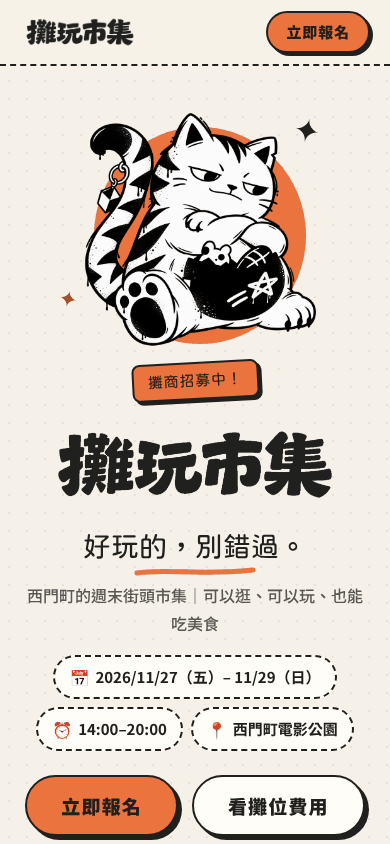
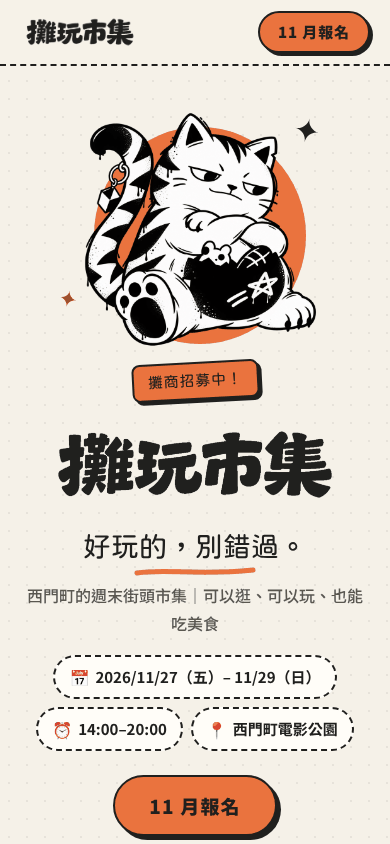
Restore signup rules, split November and December signup entries
- Restore the signup-deadline and late-signup rules and the two FAQ
  answers as of f230590.
- Rename the three form buttons to 11 月報名 (same November form).
- Add a disabled 12 月報名即將開放 button in the price card and the
  signup block; add the monthly-plan condition 勾選當月全部營業日.
- Note in HTML comments and README how to swap in the December form.
- Keep the recruit section, 執行單位 and privacy notice; update
  screenshots.

Claude-Session: https://claude.ai/code/session_012dQHuckgmktwtxDEBvdD1o

Changed region(s): [[0.0615, 0.8934, 0.9538, 1.0], [0.6462, 0.0, 0.8308, 0.0616], [0.8615, 0.8934, 0.8923, 0.9242]]

diff --git a/index.html b/index.html
@@ -52,7 +52,7 @@
           <li><a href="#contact">聯絡我們</a></li>
         </ul>
       </nav>
-      <a class="btn btn-sm" href="https://forms.gle/8Fhi1L7nHp1qh5zT6" target="_blank" rel="noopener">立即報名<span class="sr-only">（另開新分頁）</span></a>
+      <a class="btn btn-sm" href="https://forms.gle/8Fhi1L7nHp1qh5zT6" target="_blank" rel="noopener">11 月報名<span class="sr-only">（另開新分頁）</span></a>
     </div>
   </header>
 
@@ -77,7 +77,7 @@
           </ul>
 
           <div class="hero-actions">
-            <a class="btn btn-lg" href="https://forms.gle/8Fhi1L7nHp1qh5zT6" target="_blank" rel="noopener">立即報名<span class="sr-only">（另開新分頁）</span></a>
+            <a class="btn btn-lg" href="https://forms.gle/8Fhi1L7nHp1qh5zT6" target="_blank" rel="noopener">11 月報名<span class="sr-only">（另開新分頁）</span></a>
             <a class="btn btn-ghost btn-lg" href="#fees">看攤位費用</a>
           </div>
         </div>
@@ -146,6 +146,10 @@
             <div class="info-item">
               <dt>日期</dt>
               <dd>2026 年 11 月 27 日（五）至 11 月 29 日（日）</dd>
+            </div>
+            <div class="info-item">
+              <dt>報名截止</dt>
+              <dd>每個出攤日皆可報名至前一天<br><span class="muted">例：11/28（六）出攤，報名至 11/27（五）止。<br>出攤日前 3 天內才報名的，主辦方會在出攤前一天 18:00 前通知錄取結果，錄取者請於收到通知當天完成匯款。</span></dd>
             </div>
             <div class="info-item">
               <dt>營業時間</dt>
@@ -227,8 +231,10 @@
               <h3>12 月起新價格</h3>
               <ul class="price-next-list">
                 <li><span class="price-next-plan">單日</span><span class="price-next-amount">NT$1,200</span><span class="price-next-unit">每攤每日</span></li>
-                <li><span class="price-next-plan">包月</span><span class="price-next-amount">NT$1,000</span><span class="price-next-unit">每攤每日</span></li>
+                <li><span class="price-next-plan">包月</span><span class="price-next-amount">NT$1,000</span><span class="price-next-unit">每攤每日</span><span class="price-next-cond">勾選當月全部營業日</span></li>
               </ul>
+              <!-- ✏ 12 月報名按鈕：12 月報名表單建立後，把這個 <button> 換成連到新表單的連結 -->
+              <button class="btn btn-disabled price-next-btn" type="button" disabled>12 月報名即將開放</button>
             </div>
             <div class="price-included">
               <h3>每攤附</h3>
@@ -299,11 +305,11 @@
         <div class="faq-list">
           <details class="faq">
             <summary>送出報名表就是錄取了嗎？</summary>
-            <div class="faq-body"><p>不是。報名後 3 日內沒收到錄取通知，就是未錄取，不另外通知，請一併留意垃圾郵件匣。</p></div>
+            <div class="faq-body"><p>不是。報名後 3 日內沒收到錄取通知，就是未錄取，不另外通知，請一併留意垃圾郵件匣。</p><p>出攤日前 3 天內才報名的，會在出攤前一天 18:00 前通知錄取結果；到時沒收到通知，就是未錄取。</p></div>
           </details>
           <details class="faq">
             <summary>錄取後怎麼付款？</summary>
-            <div class="faq-body"><p>收到錄取通知後 3 日內匯款，並填寫匯款回傳單。</p></div>
+            <div class="faq-body"><p>收到錄取通知後 3 日內匯款，並填寫匯款回傳單。</p><p>出攤日前 3 天內才報名、在出攤前一天收到錄取通知的，請於收到通知當天完成匯款並填寫匯款回傳單。</p></div>
           </details>
           <details class="faq">
             <summary>付款後可以取消或退費嗎？</summary>
@@ -341,8 +347,15 @@
           <div class="signup-body">
             <div class="signup-text">
               <h2 id="signup-title">一起來擺攤吧！</h2>
+              <!-- ✏ 報名截止日 -->
+              <p class="signup-deadline">每個出攤日皆可報名至前一天</p>
               <p>填寫線上報名表即可報名。報名後 3 日內沒收到錄取通知，就是未錄取，不另外通知，請一併留意垃圾郵件匣。</p>
-              <a class="btn btn-lg" href="https://forms.gle/8Fhi1L7nHp1qh5zT6" target="_blank" rel="noopener">立即報名<span class="sr-only">（另開新分頁）</span></a>
+              <p>出攤日前 3 天內才報名的，主辦方會在出攤前一天 18:00 前通知錄取結果，錄取者請於收到通知當天完成匯款。</p>
+              <div class="signup-actions">
+                <a class="btn btn-lg" href="https://forms.gle/8Fhi1L7nHp1qh5zT6" target="_blank" rel="noopener">11 月報名<span class="sr-only">（另開新分頁）</span></a>
+                <!-- ✏ 12 月報名按鈕：12 月報名表單建立後，把這個 <button> 換成連到新表單的連結（寫法同上一行 11 月報名，換掉網址和文字） -->
+                <button class="btn btn-lg btn-disabled" type="button" disabled>12 月報名即將開放</button>
+              </div>
               <p class="signup-privacy">報名表第 1 頁附有個人資料蒐集告知事項，拍照宣傳與行銷訊息皆需另外勾選同意。</p>
             </div>
             <img class="signup-cat" src="assets/cat-launch.png" alt="攤玩貓拉線發射戰鬥陀螺" width="800" height="800" loading="lazy">

diff --git a/styles.css b/styles.css
@@ -123,6 +123,14 @@ a { color: inherit; }
 .btn-sm { min-height: 40px; padding: 6px 18px; font-size: .9375rem; box-shadow: 3px 3px 0 var(--ink); }
 .btn-ghost { background: var(--white); }
 .btn-line { background: #06C755; color: var(--ink); }
+.btn-disabled,
+.btn-disabled:hover {
+  background: #D9D3C7;
+  color: var(--ink);
+  box-shadow: none;
+  transform: none;
+  cursor: not-allowed;
+}
 
 /* ---------- sticker label ---------- */
 .sticker {
@@ -460,6 +468,12 @@ a { color: inherit; }
   color: var(--orange);
 }
 .price-next-unit { font-size: .8125rem; opacity: .9; }
+.price-next-cond {
+  margin-top: 4px;
+  font-size: .8125rem;
+  font-weight: 700;
+}
+.price-next-btn { margin-top: 14px; }
 .price-included {
   padding-top: 18px;
   border-top: 2px dashed rgba(245, 241, 232, .5);
@@ -652,6 +666,21 @@ a { color: inherit; }
 .signup-text { text-align: center; }
 .signup-text h2 { font-size: clamp(1.75rem, 6vw, 2.5rem); margin-bottom: 12px; }
 .signup-text p { color: var(--muted); }
+.signup-text .signup-deadline {
+  display: inline-block;
+  padding: 2px 14px;
+  background: var(--orange);
+  border: 2px solid var(--ink);
+  border-radius: 999px;
+  color: var(--ink);
+  font-weight: 900;
+}
+.signup-actions {
+  display: flex;
+  flex-wrap: wrap;
+  justify-content: center;
+  gap: 14px;
+}
 .signup-text .signup-privacy { margin-top: 12px; font-size: .8125rem; }
 .signup-cat { width: min(70%, 280px); margin: 0 auto; }
 
@@ -765,6 +794,7 @@ a { color: inherit; }
     padding: 24px 48px 0;
   }
   .signup-text { text-align: left; }
+  .signup-actions { justify-content: flex-start; }
 
   .footer-inner { grid-template-columns: 1.2fr .8fr; }
   .footer-info { text-align: left; }

diff --git a/README.md b/README.md
@@ -33,10 +33,20 @@ tanwan-market/
 | --- | --- |
 | 分享標題、搜尋結果說明裡的日期 | 檔案最上方 `<title>`、`description`、`og:description`、`twitter:description` |
 | 主視覺上的日期／時間／地點小標籤 | `✏ 日期地點（主視覺）` |
-| 時間與地點區塊（日期、營業時間、地址、停車） | `✏ 日期、營業時間、地點` |
+| 時間與地點區塊（日期、報名截止、營業時間、地址、停車） | `✏ 日期、營業時間、地點` |
+| 報名區的「報名截止」標籤 | `✏ 報名截止日` |
+| 12 月報名按鈕（價格卡、報名區各一個） | `✏ 12 月報名按鈕` |
 | 攤位費用、設備、加租、用電、自備、報到撤場 | `✏ 攤位費用` |
 
-**目前價格**：價格卡上方是 `11 月試營運優惠`（每攤每日 NT$1,000），下方「12 月起新價格」列出單日 NT$1,200、包月每攤每日 NT$1,000（`price-next` 區塊）。11 月檔期結束後，可以把上方貼紙和 `NT$1,000` 改成 12 月的價格，再刪掉 `<div class="price-next">…</div>` 整塊。
+**目前價格**：價格卡上方是 `11 月試營運優惠`（每攤每日 NT$1,000），下方「12 月起新價格」列出單日每攤每日 NT$1,200、包月每攤每日 NT$1,000（包月需勾選當月全部營業日）。
+
+**11 月、12 月報名入口分開**：11 月的「11 月報名」按鈕（頁首、主視覺、報名區）連到 11 月的報名表。12 月的報名表還沒建立，所以價格卡和報名區各放一個不能點的「12 月報名即將開放」按鈕。**12 月報名表單建立後**，在 `index.html` 搜尋 `✏ 12 月報名按鈕`，把兩個 `<button … disabled>12 月報名即將開放</button>` 換成連結，例如：
+
+```html
+<a class="btn btn-lg" href="12 月表單網址" target="_blank" rel="noopener">12 月報名<span class="sr-only">（另開新分頁）</span></a>
+```
+
+（價格卡那一顆用 `class="btn price-next-btn"`。）
 
 > `banner.png` 和 `og-image.png` 圖上都沒有日期，改日期時不用換圖。
 
@@ -49,7 +59,7 @@ tanwan-market/
 3. 若新圖的長寬比例和舊圖不同，請到 `index.html` 找到對應的 `<img>`，把 `width`、`height` 改成新圖的像素尺寸（避免載入時版面跳動）。
 4. 上傳前請先壓縮（例如 [TinyPNG](https://tinypng.com/)），手機載入會快很多。目前 `assets/` 的圖都已用 pngquant 壓縮過（尺寸不變）。
 
-報名表連結 `https://forms.gle/8Fhi1L7nHp1qh5zT6` 出現在 3 個「立即報名」按鈕上（頁首、主視覺、報名區），換表單時在 `index.html` 搜尋 `forms.gle` 全部替換。
+11 月報名表連結 `https://forms.gle/8Fhi1L7nHp1qh5zT6` 出現在 3 個「11 月報名」按鈕上（頁首、主視覺、報名區），換表單時在 `index.html` 搜尋 `forms.gle` 全部替換。
 
 ## 如何開啟 GitHub Pages
 
